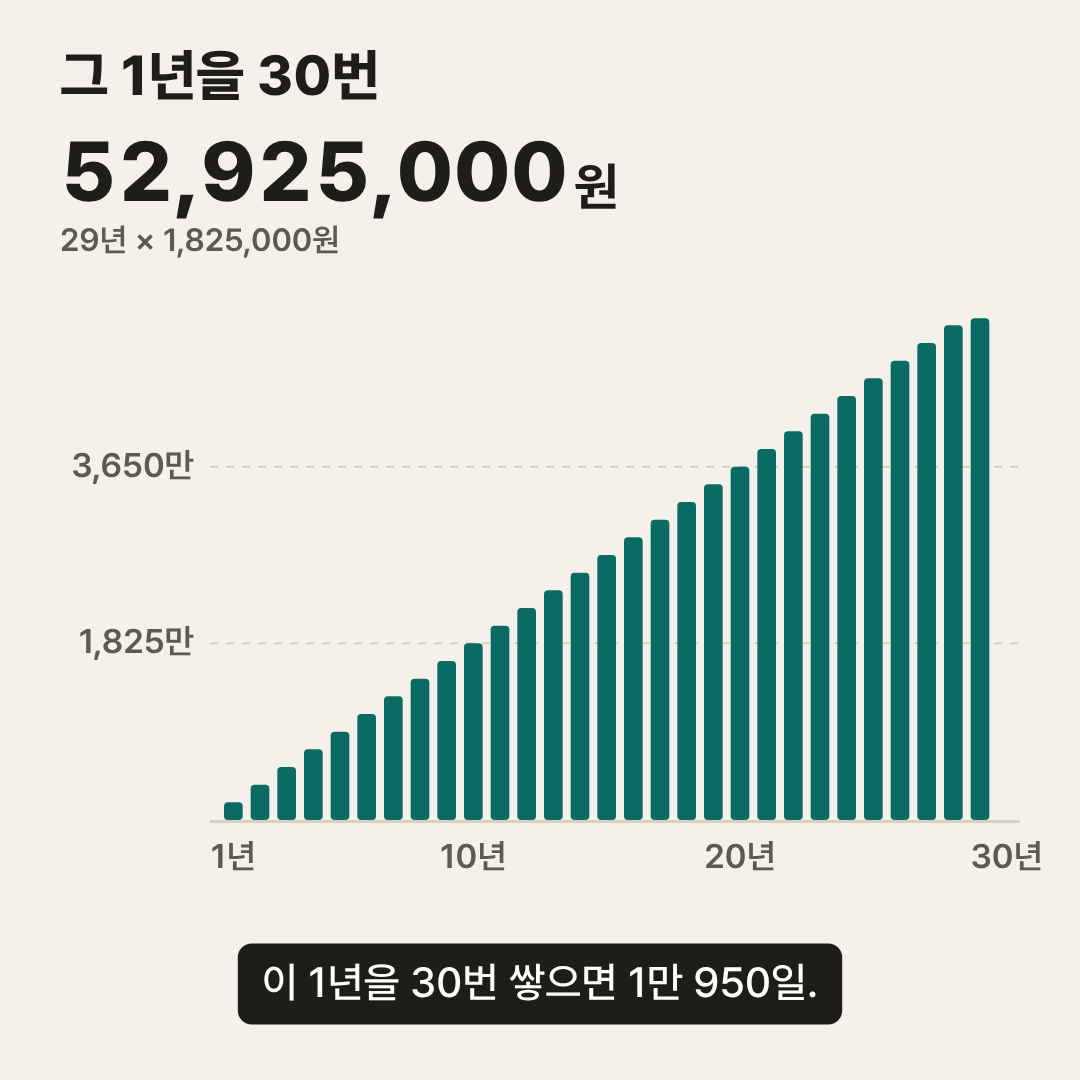
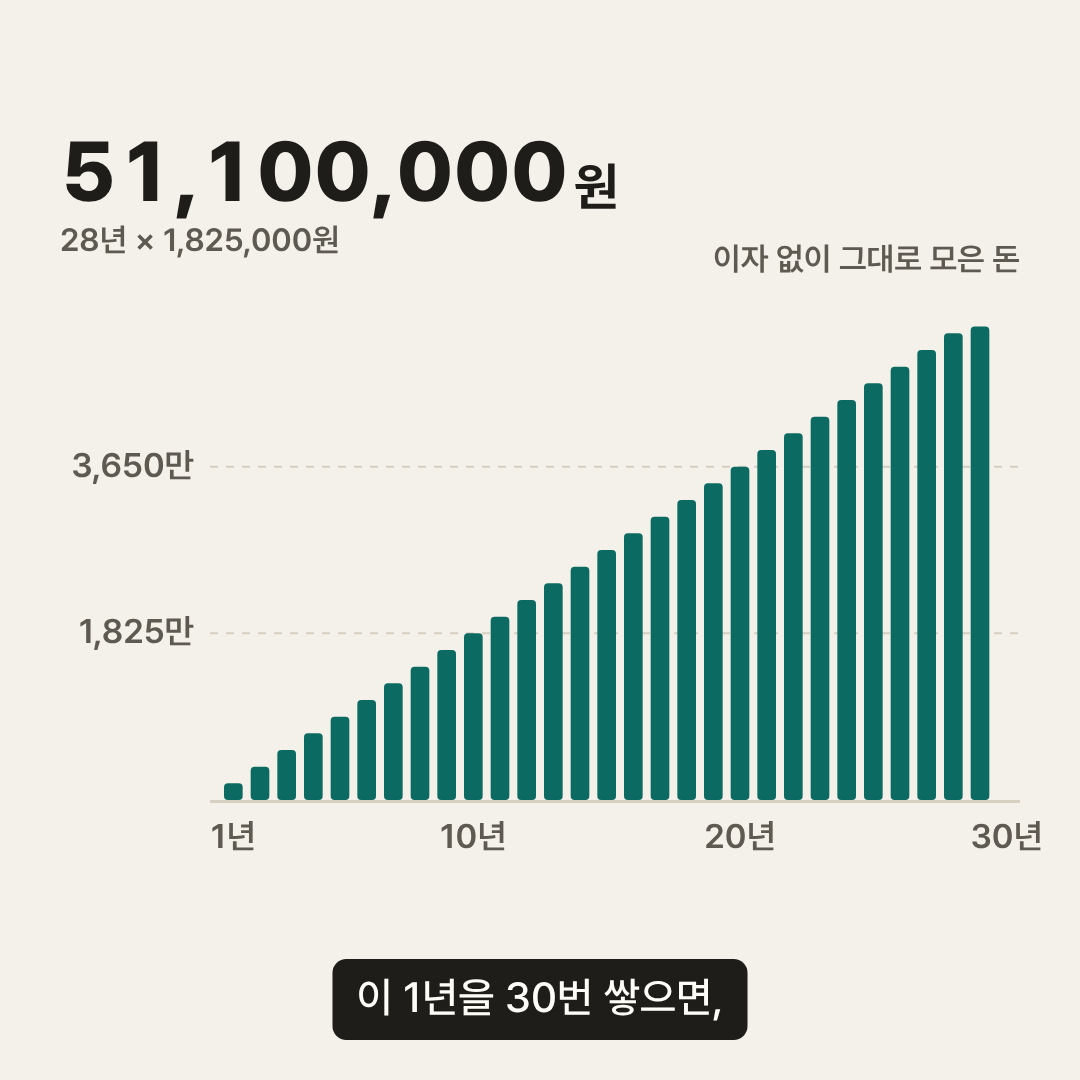
Finish coffee explainer: review fixes, verified renders, README
Applies the design review:
- The turn is framed as saving starting late.
- The chart says it is money saved without interest.
- The payoff makes 5,475만 원 the largest figure.
- Captions land with the counter.
- The counter's equation is always true.
- 9:16 captions sit above the Shorts overlay.
- Empty day slots are more visible.
Also fixes the reduced-motion cell fade and the loudness checker. README
lists the measured results: deterministic frames, -15.9 LUFS / -1.5 dBTP,
no flashes, contrast >= 5.18:1, and text readable at 390 px wide.

Claude-Session: https://claude.ai/code/session_01WhfpCJN8WaFeYZjnim763q

diff --git a/explainer/coffee/film.js b/explainer/coffee/film.js
@@ -28,11 +28,11 @@
   /* ---------------- tokens ---------------- */
   const THEMES = {
     paper: { ground: "#F4F1EA", surface: "#FFFDF8", ink: "#1E1D1A", muted: "#5E5A52", line: "#D6CFC2",
-             accent: "#0B6B62", accentFill: "#DCEBE6", onAccent: "#FFFDF8", capBg: "#1E1D1A", capInk: "#FFFDF8" },
+             accent: "#0B6B62", accentFill: "#DCEBE6", onAccent: "#FFFDF8", capBg: "#1E1D1A", capInk: "#FFFDF8", slot: "#B5AB99" },
     noir: { ground: "#0A0B0B", surface: "#161918", ink: "#F4F6F5", muted: "#A3AAA8", line: "#2A2F2D",
-            accent: "#17D0BB", accentFill: "#12322E", onAccent: "#0A0B0B", capBg: "#F4F6F5", capInk: "#0A0B0B" },
+            accent: "#17D0BB", accentFill: "#12322E", onAccent: "#0A0B0B", capBg: "#F4F6F5", capInk: "#0A0B0B", slot: "#3A403E" },
     blueprint: { ground: "#EEF2F6", surface: "#FFFFFF", ink: "#14202E", muted: "#4A5868", line: "#C5D0DC",
-                 accent: "#1F5FAD", accentFill: "#DCE7F5", onAccent: "#FFFFFF", capBg: "#14202E", capInk: "#FFFFFF" },
+                 accent: "#1F5FAD", accentFill: "#DCE7F5", onAccent: "#FFFFFF", capBg: "#14202E", capInk: "#FFFFFF", slot: "#A9B7C7" },
   };
   const C = THEMES[THEME_ID];
   const SANS = "Pretendard, sans-serif";
@@ -41,22 +41,22 @@
   const FMTS = {
     "16x9": { W: 1920, H: 1080, m: 96, anchor: { y: 104, size: 68 },
       counter: { y: 218, size: 96, sub: 36 }, content: { y0: 160, y1: 905 },
-      cap: { cy: 980, size: 54, maxW: 1720 },
+      cap: { bottom: 1040, size: 54, maxW: 1720 },
       card: { cx: 960, cy: 540, w: 980, icon: 108, title: 40, body: 64, pad: 40 }, cell: 230,
       grid: { cols: 37, cell: 32, gap: 6, cy: 590 },
-      chart: { x0: 330, x1: 1824, top: 380, bot: 838, label: 36 }, foot: 34 },
+      chart: { x0: 330, x1: 1824, top: 390, bot: 830, label: 36 }, foot: 36 },
     "9x16": { W: 1080, H: 1920, m: 72, anchor: { y: 214, size: 68 },
       counter: { y: 400, size: 108, sub: 40 }, content: { y0: 290, y1: 1400 },
-      cap: { cy: 1510, size: 48, maxW: 936 },            // above the Shorts/Reels overlay
+      cap: { bottom: 1480, size: 48, maxW: 936 },        // ends above the Shorts/Reels overlay (y ≥ 1536)
       card: { cx: 540, cy: 845, w: 936, icon: 124, title: 44, body: 76, pad: 44 }, cell: 280,
       grid: { cols: 19, cell: 36, gap: 6, cy: 972 },
-      chart: { x0: 236, x1: 1008, top: 560, bot: 1300, label: 38 }, foot: 36 },
+      chart: { x0: 236, x1: 1008, top: 610, bot: 1250, label: 38 }, foot: 40 },
     "1x1": { W: 1080, H: 1080, m: 60, anchor: { y: 78, size: 56 },
       counter: { y: 176, size: 84, sub: 32 }, content: { y0: 130, y1: 900 },
-      cap: { cy: 984, size: 42, maxW: 960 },
+      cap: { bottom: 1040, size: 42, maxW: 960 },
       card: { cx: 540, cy: 520, w: 900, icon: 96, title: 36, body: 58, pad: 34 }, cell: 210,
       grid: { cols: 25, cell: 30, gap: 5, cy: 560 },
-      chart: { x0: 220, x1: 1020, top: 290, bot: 820, label: 34 }, foot: 30 },
+      chart: { x0: 220, x1: 1020, top: 300, bot: 800, label: 34 }, foot: 32 },
   };
   const F = FMTS[FMT_ID];
   const W = F.W, H = F.H;
@@ -82,30 +82,30 @@
       axis_in: 11.4,
       bars: 12.5,             // bar 2 starts here; one bar every 0.25 s, each grows 0.3 s
       bar_step: 0.25,
-      late_hollow: 22.9,      // first 10 bars go hollow (0.8 s)
-      late_shrink: 23.7,      // bars 11..30 drop by 10 years (1.3 s)
-      late_gap: 25.0,         // the lost top is marked
+      late_hollow: 22.8,      // first 10 bars go hollow (0.6 s)
+      late_shrink: 23.3,      // bars 11..30 drop by 10 years (1.3 s)
+      late_gap: 24.6,         // the lost top is marked
       out: 27.0,              // chart and counter leave (0.3 s)
       card_back: 27.35,
       card_line: 27.9,        // "× 10,950일 = 54,750,000원" types into the card
       foot: 28.5,
     },
     anchors: [
-      { t0: 0.9, t1: 2.9, text: "이 정도는 푼돈?" },
       { t0: 3.2, t1: 4.9, text: "하루 = 한 칸" },
       { t0: 5.3, t1: 10.4, text: "1년 = 365칸" },
-      { t0: 10.8, t1: 19.7, text: "그 1년을 30번" },
       { t0: 19.9, t1: 22.4, text: "30년 = 10,950일" },
-      { t0: 22.7, t1: 26.9, text: "10년 늦게 시작하면" },
+      { t0: 22.7, t1: 26.9, text: "10년 늦게 모으기 시작하면" },
       { t0: 28.0, t1: 30.4, text: "오늘 한 잔부터 세어 보세요" },
     ],
     captions: [
       { t0: 0.2, t1: 2.9, text: "커피 한 잔 5,000원, 푼돈이라고들 하죠." },
-      { t0: 3.0, t1: 4.9, text: "5,000원을 하루 한 칸으로 두고," },
-      { t0: 5.0, t1: 10.4, text: "1년을 채우면 365칸, 182만 5천 원입니다." },
-      { t0: 10.5, t1: 19.8, text: "이 1년을 30번 쌓으면 1만 950일." },
-      { t0: 19.9, t1: 22.4, text: "모두 합쳐 5,475만 원이 됩니다." },
-      { t0: 22.5, t1: 26.9, text: "10년 늦게 시작하면 3,650만 원, 1,825만 원이 줄어듭니다." },
+      { t0: 3.0, t1: 4.9, text: "이 5,000원을 하루 한 칸씩 모으면," },
+      { t0: 5.0, t1: 8.5, text: "1년을 채우면 365칸," },
+      { t0: 8.6, t1: 10.4, text: "182만 5천 원입니다." },
+      { t0: 10.5, t1: 19.8, text: "이 1년을 30번 쌓으면," },
+      { t0: 19.9, t1: 22.4, text: "1만 950일, 모두 5,475만 원입니다." },
+      { t0: 22.5, t1: 24.5, text: "10년 늦게 모으기 시작하면" },
+      { t0: 24.6, t1: 26.9, text: "1,825만 원이 덜 모입니다." },
       { t0: 27.0, t1: 29.9, text: "하루 5,000원, 30년이면 5,475만 원입니다." },
     ],
     cues: [
@@ -115,8 +115,8 @@
       { t: 10.6, kind: "swish" },      // the year collapses into one bar
       { t: 14.8, kind: "tick" }, { t: 17.3, kind: "tick" }, { t: 19.8, kind: "tick" }, // 10 / 20 / 30 years
       { t: 19.9, kind: "motif" },      // the total
-      { t: 22.9, kind: "thud" },       // ten years gone
-      { t: 25.0, kind: "low" },        // the smaller total
+      { t: 22.8, kind: "thud" },       // ten years gone
+      { t: 24.6, kind: "low" },        // the smaller total lands
       { t: 27.9, kind: "motif" },      // the opening image, read correctly
     ],
     bpm: 96,
@@ -173,7 +173,7 @@
 
   /* ---------------- layout ---------------- */
   const CARD = (() => { const c = F.card, h = c.pad * 2 + c.title * 1.3 + c.body * 1.25; return { x: c.cx - c.w / 2, y: c.cy - h / 2, w: c.w, h }; })();
-  const cardH = (extra) => CARD.h + extra * F.card.body * 1.4;
+  const cardH = (extra) => CARD.h + extra * (F.card.pad * 0.6 + F.card.title * 1.5 + F.card.body * 1.55);
   const G = (() => { const g = F.grid, rows = Math.ceil(DAYS_PER_YEAR / g.cols), step = g.cell + g.gap;
     const w = g.cols * step - g.gap, h = rows * step - g.gap; return { ...g, rows, step, w, h, x: W / 2 - w / 2, y: g.cy - h / 2 }; })();
   const cellRect = (k) => ({ x: G.x + (k % G.cols) * G.step, y: G.y + Math.floor(k / G.cols) * G.step, w: G.cell, h: G.cell });
@@ -237,11 +237,11 @@
     text("오전 8:12", CARD.x + CARD.w - c.pad, iy + c.title * 0.55, { size: c.title, weight: 500, color: C.muted, align: "right", alpha });
     number("5,000원", tx, iy + c.title * 1.3 + c.body * 0.62, c.body, { alpha });
     if (extraLine) {
-      const ly = iy + c.title * 1.3 + c.body * 1.95;
-      const full = `× ${TOTAL_DAYS.toLocaleString("en-US")}일 = ${won(TOTAL)}`;
-      const shown = [...full].slice(0, Math.round([...full].length * extraLine.reveal)).join("");
-      ctx.save(); ctx.globalAlpha *= alpha; ctx.fillStyle = C.line; ctx.fillRect(ix, ly - c.body * 0.66, CARD.w - c.pad * 2, 2); ctx.restore();
-      text(shown, ix, ly, { size: c.body * 0.82, weight: 800, color: C.accent, alpha, maxW: CARD.w - c.pad * 2 });
+      const ly = iy + c.title * 1.3 + c.body * 1.25 + c.pad * 0.6;
+      ctx.save(); ctx.globalAlpha *= alpha; ctx.fillStyle = C.line; ctx.fillRect(ix, ly, CARD.w - c.pad * 2, 2); ctx.restore();
+      const a1 = alpha * clamp(extraLine.reveal * 2), a2 = alpha * clamp(extraLine.reveal * 2 - 1);
+      text(`× ${TOTAL_DAYS.toLocaleString("en-US")}일 (30년)`, ix, ly + c.pad * 0.6 + c.title * 0.5, { size: c.title, weight: 700, color: C.accent, alpha: a1 });
+      text(`= ${man(TOTAL)} 원`, ix, ly + c.pad * 0.6 + c.title * 1.25 + c.body * 0.7, { size: c.body * 1.3, weight: 800, color: C.accent, alpha: a2, maxW: CARD.w - c.pad * 2 });
     }
   }
 
@@ -251,7 +251,7 @@
     if (T < M.card_to_cell) { ctx.save(); ctx.translate(0, rise); drawCard(appear); ctx.restore(); return; }
     const k = mv(M.card_to_cell, 0.9), tf = fa(M.card_to_cell, 0.35);
     if (T < M.cell_to_grid) {
-      if (RM) { drawCard(1 - fa(M.card_to_cell, 0.9)); bigCell(BIG, fa(M.card_to_cell, 0.9)); return; }
+      if (RM) { const f = fa(M.card_to_cell, 0.9); drawCard(1 - f); bigCell(BIG, f, f); return; }
       drawCard(1 - tf);
       const r = { x: lerp(CARD.x, BIG.x, k), y: lerp(CARD.y, BIG.y, k), w: lerp(CARD.w, BIG.w, k), h: lerp(CARD.h, BIG.h, k) };
       bigCell(r, k);
@@ -259,11 +259,12 @@
     }
     if (T >= M.grid_to_bar) return;
     const k2 = mv(M.cell_to_grid, 0.6), d0 = cellRect(0);
-    if (RM) { bigCell(BIG, 1 - fa(M.cell_to_grid, 0.6)); return; }
+    if (RM) { const f = 1 - fa(M.cell_to_grid, 0.6); bigCell(BIG, f, f); return; }
     if (k2 < 1) bigCell({ x: lerp(BIG.x, d0.x, k2), y: lerp(BIG.y, d0.y, k2), w: lerp(BIG.w, d0.w, k2), h: lerp(BIG.h, d0.h, k2) }, 1 - k2);
   }
-  function bigCell(r, labelAlpha) {
-    ctx.save(); rrect(r.x, r.y, r.w, r.h, Math.min(26, r.w * 0.18)); ctx.fillStyle = C.accent; ctx.fill(); ctx.restore();
+  function bigCell(r, labelAlpha, alpha = 1) {
+    if (alpha <= 0) return;
+    ctx.save(); ctx.globalAlpha *= alpha; rrect(r.x, r.y, r.w, r.h, Math.min(26, r.w * 0.18)); ctx.fillStyle = C.accent; ctx.fill(); ctx.restore();
     if (r.w > 80) text("5,000원", r.x + r.w / 2, r.y + r.h / 2, { size: r.w * 0.2, weight: 800, color: C.onAccent, align: "center", alpha: labelAlpha });
   }
 
@@ -274,7 +275,7 @@
     const cellsAlpha = RM ? 1 - fa(M.grid_to_bar, 1.2) : clamp(1 - collapse * 2.2);
     // empty slots: the year waiting to be filled
     ctx.save(); ctx.globalAlpha = 0.9 * cellsAlpha * fa(M.cell_to_grid, 0.5);
-    ctx.fillStyle = C.line; for (let k = 0; k < DAYS_PER_YEAR; k++) { const r = cellRect(k); rrect(r.x, r.y, r.w, r.h, 6); ctx.fill(); }
+    ctx.fillStyle = C.slot; for (let k = 0; k < DAYS_PER_YEAR; k++) { const r = cellRect(k); rrect(r.x, r.y, r.w, r.h, 6); ctx.fill(); }
     ctx.restore();
     ctx.save(); ctx.globalAlpha = cellsAlpha; ctx.fillStyle = C.accent;
     for (let k = (T < M.cell_to_grid + 0.6 && !RM ? 1 : 0); k < n; k++) { const r = cellRect(k); rrect(r.x, r.y, r.w, r.h, 6); ctx.fill(); }
@@ -292,6 +293,7 @@
     const out = 1 - fa(M.out, 0.3);
     const ax = fa(M.axis_in, 0.6) * out;
     ctx.save(); ctx.globalAlpha = ax; ctx.fillStyle = C.line; ctx.fillRect(CH.x0 - 10, CH.bot, CH.x1 - CH.x0 + 10, 3); ctx.restore();
+    text("이자 없이 그대로 모은 돈", CH.x1, CH.top - CH.label * 1.15, { size: F.foot, weight: 600, color: C.muted, align: "right", alpha: ax });
     // x labels
     for (const [i, lab] of [[1, "1년"], [10, "10년"], [20, "20년"], [30, "30년"]])
       text(lab, barX(i) + CH.bw / 2, CH.bot + CH.label * 1.1, { size: CH.label, weight: 600, color: C.muted, align: "center", alpha: ax });
@@ -304,7 +306,7 @@
       text(man(YEAR_SUM * yrs), CH.x0 - 26, y, { size: CH.label, weight: 600, color: C.muted, align: "right", alpha: a });
     }
     // bars
-    const hollow = T >= M.late_hollow ? (RM ? fa(M.late_hollow, 0.8) : mv(M.late_hollow, 0.8)) : 0;
+    const hollow = T >= M.late_hollow ? (RM ? fa(M.late_hollow, 0.6) : mv(M.late_hollow, 0.6)) : 0;
     for (let i = 1; i <= YEARS; i++) {
       const yrs = barYears(i); if (yrs <= 0) continue;
       const x = barX(i), h = yrs * CH.unit;
@@ -331,14 +333,15 @@
     if (T < M.cell_to_grid || T >= M.out + 0.6) return;
     const a = fa(M.cell_to_grid, 0.5) * (1 - fa(M.out, 0.3));
     const years = yearsSoFar();
-    let value = T < M.grid_to_bar ? filledDays() * DAILY : years * YEAR_SUM;
-    value = Math.round(value / DAILY) * DAILY;
+    const falling = T >= M.late_shrink && T < M.late_shrink + 1.3;
+    const wholeYears = Math.min(YEARS, Math.max(1, Math.round(years)));
+    let value = T < M.grid_to_bar ? filledDays() * DAILY : falling ? Math.round(years * YEAR_SUM / DAILY) * DAILY : wholeYears * YEAR_SUM;
     number(won(value), F.m, F.counter.y, F.counter.size, { alpha: a });
     let sub;
     if (T < M.grid_to_bar) sub = `${filledDays()}일 × 5,000원`;
-    else if (T < M.late_shrink) sub = `${Math.min(YEARS, Math.max(1, Math.floor(years + 1e-6)))}년 × ${won(YEAR_SUM)}`;
-    else sub = `${YEARS - LATE}년 × ${won(YEAR_SUM)} · 10년 늦게 시작`;
-    text(sub, F.m, F.counter.y + F.counter.size * 0.78, { size: F.counter.sub, weight: 600, color: C.muted, alpha: a, maxW: W - F.m * 2 });
+    else sub = `${wholeYears}년 × ${won(YEAR_SUM)}`;
+    const subA = falling ? 0 : T >= M.late_shrink ? fa(M.late_shrink + 1.3, 0.3) : 1;
+    text(sub, F.m, F.counter.y + F.counter.size * 0.78, { size: F.counter.sub, weight: 600, color: C.muted, alpha: a * subA, maxW: W - F.m * 2 });
   }
 
   function drawPayoff() {
@@ -347,7 +350,7 @@
     const reveal = RM ? fa(M.card_line, 0.7) : clamp((T - M.card_line) / 0.7);
     ctx.save(); ctx.translate(0, rise); drawCard(a, T >= M.card_line ? { reveal } : null); ctx.restore();
     const fy = F.card.cy + cardH(1) / 2 + F.foot * 1.4;
-    text("단순 합계 · 이자·물가·윤년 미반영", W / 2, fy, { size: F.foot, weight: 500, color: C.muted, align: "center", alpha: fa(M.foot, 0.5) });
+    text("단순 합계 · 이자·물가 미반영", W / 2, fy, { size: F.foot, weight: 500, color: C.muted, align: "center", alpha: fa(M.foot, 0.5) });
   }
 
   /* ---------------- screen-space layers ---------------- */
@@ -367,8 +370,9 @@
       const size = F.cap.size, lh = size * 1.36;
       const lines = wrap(c.text, F.cap.maxW - 48, size, 500).slice(0, 2);
       const w = Math.max(...lines.map((l) => measure(l, size, 500))) + 48, h = lines.length * lh + 24;
-      ctx.save(); ctx.globalAlpha = a; rrect(W / 2 - w / 2, F.cap.cy - h / 2, w, h, 14); ctx.fillStyle = C.capBg; ctx.fill(); ctx.restore();
-      const y0 = F.cap.cy - (lines.length - 1) * lh * 0.5;
+      const top = F.cap.bottom - h;
+      ctx.save(); ctx.globalAlpha = a; rrect(W / 2 - w / 2, top, w, h, 14); ctx.fillStyle = C.capBg; ctx.fill(); ctx.restore();
+      const y0 = top + 12 + lh / 2;
       lines.forEach((l, i) => text(l, W / 2, y0 + i * lh, { size, weight: 500, color: C.capInk, align: "center", alpha: a }));
     }
   }

diff --git a/explainer/coffee/SCENES.md b/explainer/coffee/SCENES.md
@@ -8,13 +8,13 @@ No voice-over, so the voice line is the caption track. Times come from `TIMELINE
 
 | ID | Time | Part | Teaches | Frame (in order of importance) | Motion | On-screen anchor | Caption (voice line) | Sound | Check: the viewer can now say |
 |---|---|---|---|---|---|---|---|---|---|
-| Q | 0–3 | Question | The thing they shrug off: one 5,000원 payment. | 1 card-payment notification "5,000원"; 2 anchor. Camera close on the card. | The card rises 30 px and settles (0.15–0.75 s), then holds. | 이 정도는 푼돈? | 커피 한 잔 5,000원, 푼돈이라고들 하죠. | ding as the payment lands | "That's just one coffee." |
-| M1 | 3–5 | Model | One day = one cell = 5,000원. | 1 a single teal cell labelled 5,000원. | The card shrinks into the cell as its text fades (0.9 s). The camera eases back. | 하루 = 한 칸 | 5,000원을 하루 한 칸으로 두고, | pop | "A day is a cell." |
-| M2 | 5–10.5 | Model | 365 cells make a year: 1,825,000원. | 1 the year grid filling; 2 the counter and "N일 × 5,000원". | The cell moves to day 1, then days 2–365 fill at a steady rate (3 s) with the counter in lockstep. | 1년 = 365칸 | 1년을 채우면 365칸, 182만 5천 원입니다. | tick when day 365 lands | "A year of coffee is 182만 원." |
-| P1 | 10.5–19.9 | Proof | Repeat the year 30 times. | 1 bars rising one per year; 2 the counter; 3 gridlines at 10/20/30 years. | The grid folds into bar 1, then one bar every 0.25 s, each settling in 0.3 s. Gridlines appear as each decade is reached. | 그 1년을 30번 | 이 1년을 30번 쌓으면 1만 950일. | tick at 10, 20 and 30 years | "It grows the same amount every year." |
-| P2 | 19.9–22.5 | Proof | The total: 54,750,000원. | 1 the counter at 54,750,000원; 2 the finished chart. | Hold. Nothing moves while the number is read. | 30년 = 10,950일 | 모두 합쳐 5,475만 원이 됩니다. | motif | "5,475만 원." |
-| T | 22.5–27 | Turn | Start 10 years later and the total drops by 1,825만 원. | 1 the first 10 bars hollow and dashed; 2 the counter falling to 36,500,000원; 3 the missing top of the last bar, marked −1,825만 원. | Ten bars go hollow (0.8 s), the other 20 drop by 10 years (1.3 s), then the gap is outlined. | 10년 늦게 시작하면 | 10년 늦게 시작하면 3,650만 원, 1,825만 원이 줄어듭니다. | thud, then a low tone on the new total | "Starting late costs a third." |
-| Y | 27–30 | Payoff | The opening card, read correctly. | 1 the same notification with "× 10,950일 = 54,750,000원"; 2 footnote "단순 합계 · 이자·물가·윤년 미반영"; 3 next step. | The chart leaves (0.3 s), the card returns, and the new line types in (0.7 s). Sound fades over the last second. | 오늘 한 잔부터 세어 보세요 | 하루 5,000원, 30년이면 5,475만 원입니다. | motif | "This 5,000원 is 5,475만 원." |
+| Q | 0–3 | Question | The thing they shrug off: one 5,000원 payment. | 1 card-payment notification "5,000원". Camera close on the card. | The card rises 30 px and settles (0.15–0.75 s), then holds. | (none; the caption carries it) | 커피 한 잔 5,000원, 푼돈이라고들 하죠. | ding as the payment lands | "That's just one coffee." |
+| M1 | 3–5 | Model | One day = one cell = 5,000원 set aside. | 1 a single teal cell labelled 5,000원. | The card shrinks into the cell as its text fades (0.9 s). The camera eases back. | 하루 = 한 칸 | 이 5,000원을 하루 한 칸씩 모으면, | pop | "A day is a cell." |
+| M2 | 5–10.5 | Model | 365 cells make a year: 1,825,000원. | 1 the year grid filling; 2 the counter and "N일 × 5,000원". | The cell moves to day 1, then days 2–365 fill at a steady rate (3 s) with the counter in lockstep. | 1년 = 365칸 | 1년을 채우면 365칸, / 182만 5천 원입니다. (the amount is spoken when day 365 lands) | tick when day 365 lands | "A year of coffee is 182만 원." |
+| P1 | 10.5–19.9 | Proof | Repeat the year 30 times. | 1 bars rising one per year; 2 the counter in whole years; 3 "이자 없이 그대로 모은 돈"; 4 gridlines at 10/20/30 years. | The grid folds into bar 1, then one bar every 0.25 s, each settling in 0.3 s. The counter steps one year at a time so its equation is always true. | (none; the caption carries it) | 이 1년을 30번 쌓으면, | tick at 10, 20 and 30 years | "It grows the same amount every year." |
+| P2 | 19.9–22.5 | Proof | The total: 54,750,000원. | 1 the counter at 54,750,000원; 2 the finished chart. | Hold. Nothing moves while the number is read. | 30년 = 10,950일 | 1만 950일, 모두 5,475만 원입니다. | motif | "5,475만 원." |
+| T | 22.5–27 | Turn | Start saving 10 years later and you end with 1,825만 원 less. | 1 the first 10 bars hollow and dashed; 2 the counter falling to 36,500,000원; 3 the missing top of the last bar, marked −1,825만 원. | Ten bars go hollow (0.6 s), the other 20 drop by 10 years (1.3 s), then the gap is outlined. The sub-line hides while the total falls. | 10년 늦게 모으기 시작하면 | 10년 늦게 모으기 시작하면 / 1,825만 원이 덜 모입니다. (said when the gap is marked) | thud, then a low tone when the total lands | "Starting late costs a third." |
+| Y | 27–30 | Payoff | The opening card, read correctly. | 1 "= 5,475만 원", the largest figure on screen; 2 the same 5,000원 notification with "× 10,950일 (30년)"; 3 footnote "단순 합계 · 이자·물가 미반영"; 4 next step. | The chart leaves (0.3 s), the card returns, and the two lines reveal in order (0.7 s). Sound fades over the last second. | 오늘 한 잔부터 세어 보세요 | 하루 5,000원, 30년이면 5,475만 원입니다. | motif | "This 5,000원 is 5,475만 원." |
 
 ## Reduced-motion cut
 The same beats, words and order. Nothing travels: the card-to-cell and grid-to-bar morphs become 0.3 s crossfades, bars appear at full height instead of growing, and the camera stays wide.

diff --git a/explainer/coffee/README.md b/explainer/coffee/README.md
@@ -1,0 +1,54 @@
+# 하루 커피값 5,000원, 30년이면? — 30초 설명 영상
+
+For early-career Koreans who think a 5,000원 coffee is pocket change. After 30 seconds they can say **"하루 5,000원, 30년이면 5,475만 원"**.
+
+![contact sheet](contact.png)
+
+## Deliverables
+
+| File | What it is |
+|---|---|
+| `out/master_16x9.mp4` | 1920×1080, 60 fps, 30 s, H.264 + AAC |
+| `out/cut_9x16.mp4` | 1080×1920 recomposition for Shorts and Reels |
+| `out/cut_1x1.mp4` | 1080×1080 recomposition |
+| `out/master_16x9_reduced_motion.mp4` | Same sequence of ideas with no travel: crossfades instead of moves |
+| `captions.srt` | Narration track; also burned into every video |
+| `contact.png` | One frame per beat, 16:9 |
+| `film.js`, `film.html` | Source. `window.seek(t)` paints frame t; `TIMELINE` holds every beat, move, caption and cue |
+| `SCENES.md`, `DECISIONS.md`, `SOURCES.md`, `directions.html` | Scene spec, decision log, where each number comes from, the three design directions |
+| `out/review/` | Before/after frame pairs for each fix from the design review |
+
+MP4 and WAV files are not committed. Rebuild them from the repo root:
+
+```bash
+npm install
+npm run film          # all four videos, audio, captions, stills, contact sheet (≈6 min)
+npm run film:check    # contrast, caption reading speed, text fit, determinism
+node explainer/check-video.mjs explainer/coffee/out/cut_9x16.mp4
+```
+
+Preview in a browser with `npm run serve`, then open `http://localhost:8080/explainer/coffee/film.html?fmt=9x16`. Other parameters: `fmt=16x9|1x1`, `rm=1` for reduced motion, `theme=noir|blueprint` for the rejected directions.
+
+## What was tested
+
+These are measured results from the files in `out/`, as built on 2026-10-11.
+
+| Check | How | Result |
+|---|---|---|
+| Determinism | Same frame (t = 19.37 s, and t = 8.13 s in 9:16) rendered in two fresh page loads, SHA-256 compared | Identical |
+| Arithmetic | Every number is computed in `film.js` from 5,000 × 365 × 30. An independent reviewer redid the sums from the frames | All match (see SOURCES.md) |
+| Loudness | `ebur128` on each finished MP4 | −15.9 LUFS integrated, −1.5 dBTP true peak, all four files |
+| Flashes | Frame-to-frame average luma over every frame | 0 jumps of 10% or more, all four files (3 per second allowed) |
+| Contrast | WCAG ratio for every text/background pair in the theme | Lowest text pair 5.18:1; bars 5.65:1 against the background |
+| Color not the only signal | Design review | The 10 missed years are hollow and dashed, not only recolored |
+| Caption reading speed | Characters (without spaces) per second | Worst 8.9 (limit 9) |
+| Text fit | Every format, normal and reduced motion, every 0.25 s | No text shrank to fit |
+| 390 px width | 9:16 beat frames scaled to 390 px and read | Every line readable; smallest essential text is 38 px (≈14 px on screen) |
+| Shorts/Reels overlay | Caption box position in 9:16 | Ends at y = 1480, above the bottom 20% (y ≥ 1536) |
+| Muted viewing | 1-per-second frame sheets of the 9:16 cut and the reduced-motion cut | Story reads from captions and visuals alone |
+| Design review | Independent subagent; findings and fixes in DECISIONS.md #14–15 | Applied, with before/after pairs in `out/review/` |
+
+**Not tested:** listening. The audio was checked only by measurement (loudness, peak, and a spectrum and waveform check of cue timing), not by ear. Captions were not checked by a native Korean speaker other than the author.
+
+## Assumptions shown on screen
+Plain sum: no interest, no inflation, no leap days. The chart says "이자 없이 그대로 모은 돈", and the last frame says "단순 합계 · 이자·물가 미반영". Details are in SOURCES.md.

diff --git a/explainer/coffee/DECISIONS.md b/explainer/coffee/DECISIONS.md
@@ -15,3 +15,15 @@ One line per call made without input.
 11. **9:16 safe area:** captions sit at y≈1510, above the Shorts/Reels overlay, and every essential label is at least 36 px (13 px at 390 px wide).
 12. **Design-review lessons carried over from the stand-in film:** no window chrome, no brand tag, no decorative labels. Dimmed elements change outline style, not only lightness.
 13. **MP4 and WAV files stay out of git.** `npm run film` rebuilds them. Stills, captions and the contact sheet are committed.
+14. **Design review applied.**
+    - The turn now says *saving* starts late ("10년 늦게 모으기 시작하면").
+    - The chart is labelled "이자 없이 그대로 모은 돈" from its first frame.
+    - "= 5,475만 원" is the largest figure on the payoff card.
+    - Captions say each number when the counter reaches it.
+    - The counter steps in whole years, and its sub-line hides while the total falls, so the equation on screen is never false.
+    - 9:16 captions end at y=1480, above the Shorts overlay.
+    - Empty day slots are about 2:1 against the background.
+    - Footnote: 40 px in 9:16; "윤년" removed (it is still in SOURCES.md).
+    - Cut: the Q and P1 anchors, which repeated their captions, and the "10년 늦게 시작" sub-line suffix.
+    - Kept: "오전 8:12". The card has to read as a real notification for the payoff to land.
+15. **Kept the turn rather than cutting it.** The reviewer offered cutting it as an option. The arc needs one changed variable, and "starting later" is the most useful lever for this audience. The payoff then restores 5,475만 원 as the last and largest number.

diff --git a/README.md b/README.md
@@ -107,3 +107,8 @@ npm run reel:stills  # 씬별 스틸만 (빠른 검수용)
 | 훅 | 터미널 | 타이포 | 파티클 | 대시보드 | 글리치 | 타이틀 |
 |---|---|---|---|---|---|---|
 | ![](out/reel-claude-class/still-01.png) | ![](out/reel-claude-class/still-02.png) | ![](out/reel-claude-class/still-03.png) | ![](out/reel-claude-class/still-04.png) | ![](out/reel-claude-class/still-05.png) | ![](out/reel-claude-class/still-06.png) | ![](out/reel-claude-class/still-07.png) |
+
+## 설명 영상 (explainer/)
+
+- `explainer/coffee/` — **하루 커피값 5,000원, 30년이면?** 30초 설명 영상. 16:9 / 9:16 / 1:1 세 가지 화면비와 움직임을 줄인 버전, 자막 파일(.srt), 소리를 함께 만듭니다. `npm run film` 한 번으로 다시 렌더링합니다. 자세한 내용은 [explainer/coffee/README.md](explainer/coffee/README.md)를 보세요.
+- `explainer/context/` — 브리프가 비어 있을 때 임시로 만든 영상의 소스입니다(렌더링하지 않음).
